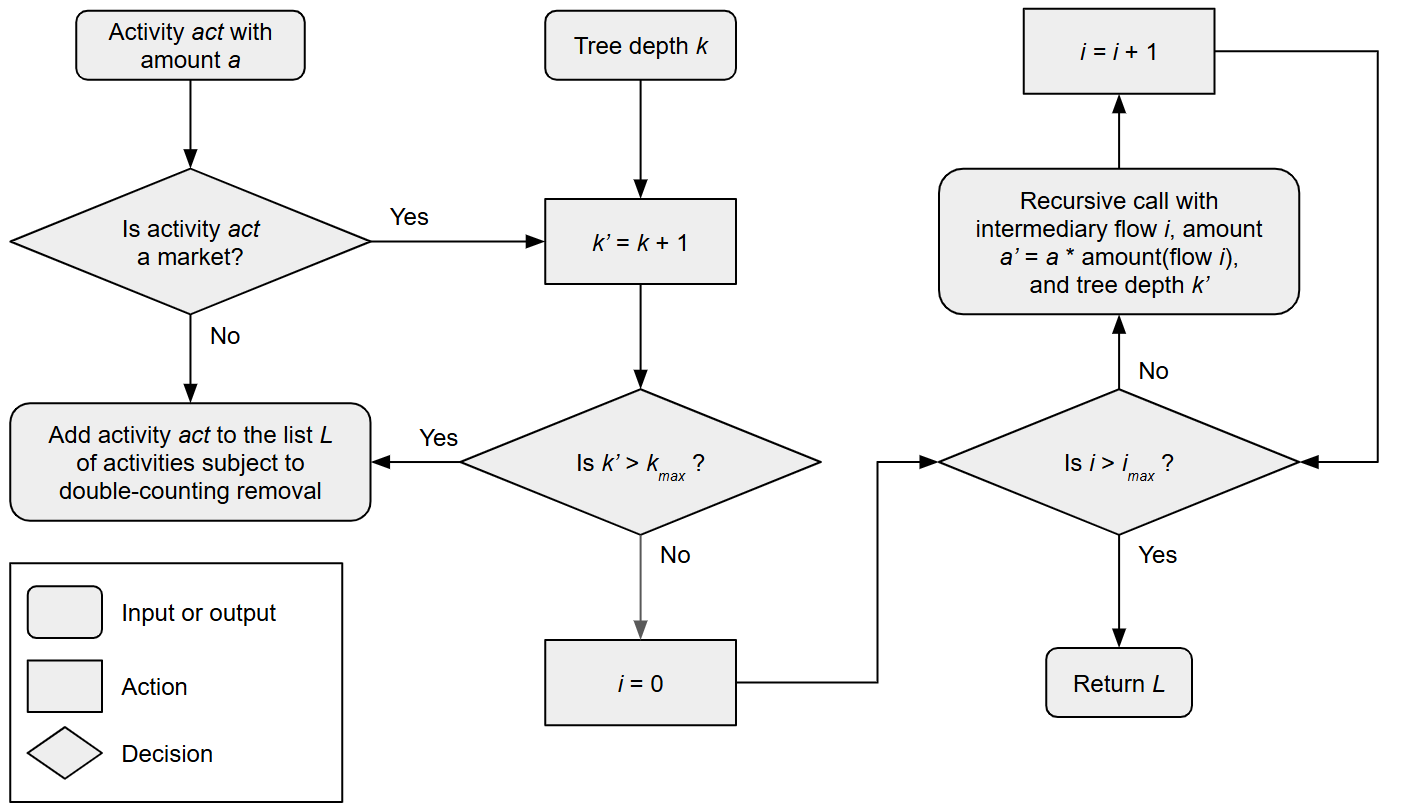
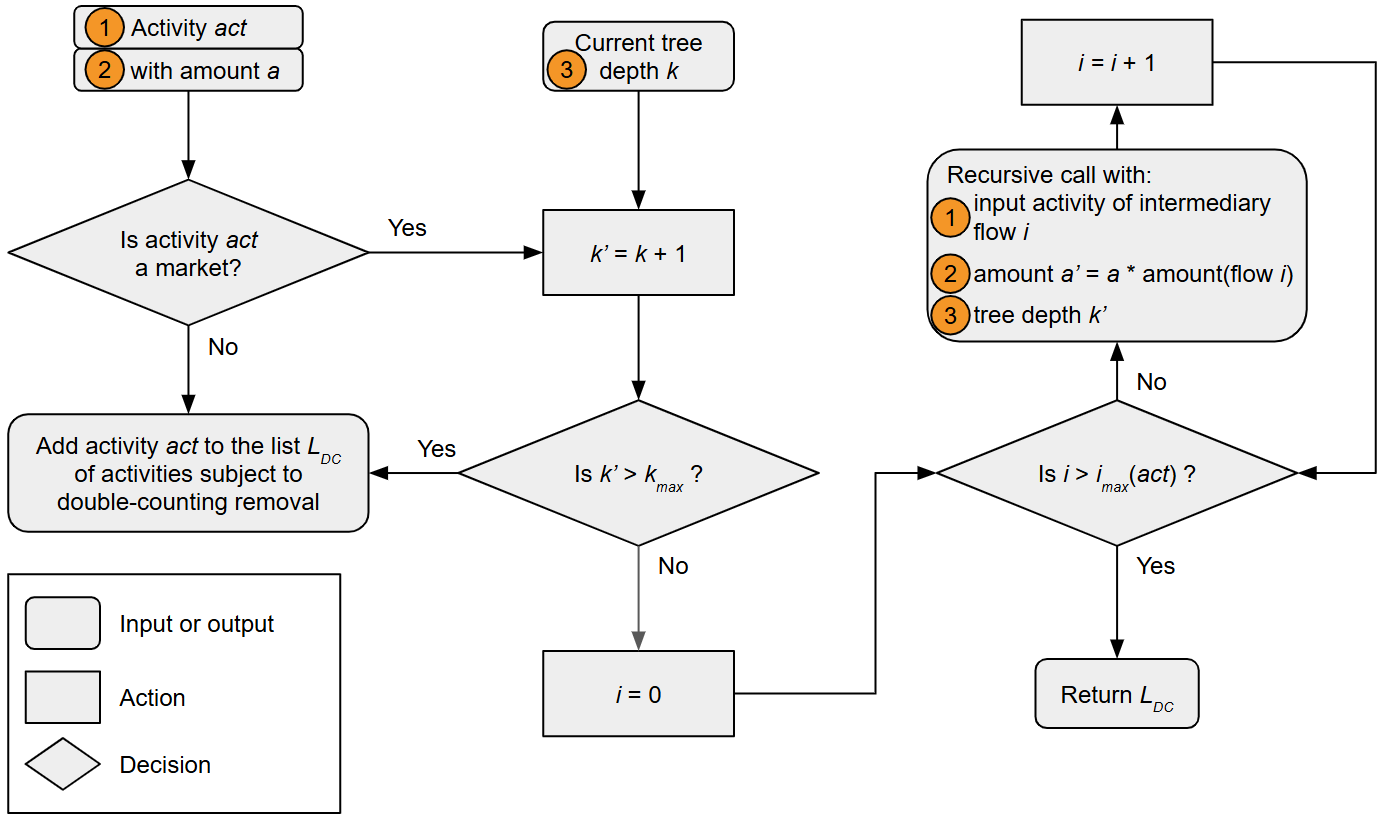
improved background search flow chart + equation esthetics

diff --git a/paper.md b/paper.md
@@ -64,7 +64,7 @@ transition pathways when policy targets were violated.
 For LCA indicators to be used actively in ESM, and thus in the transition scenarios design, hard-linking 
 coupling is required. This denotes the endogenous integration of LCA indicators in ESM.
 Several studies have endogenously integrated LCA indicators in ESM [@rauner2017; @vandepaer2020; @algunaibet2019; @reinert2022], thus 
-paving the way for multi-objective optimization. @vandepear2020 compared the use of the $\epsilon$-constraint 
+paving the way for multi-objective optimization. @vandepaer2020 compared the use of the $\epsilon$-constraint 
 method and the normalization and weighting method to integrate LCA indicators in a bottom-up optimization model. 
 Alternatively, @algunaibet2019 monetized environmental impacts in order to sum them with direct and indirect costs 
 within an economic objective function.
@@ -156,12 +156,14 @@ recursive algorithm exploring the market-type datasets backgrounds (\autoref{fig
 ![Flowchart of the background search process.\label{fig:flowchart_background_search}](docs/pics/background_search_flowchart.png)
 
 ## ESM and LCI database harmonization
-`mescal` adjusts LCI datasets and LCIA scores to account for differences between the ESM and LCI database:
+`mescal` adjusts LCI datasets and impact scores to account for differences between the ESM and LCI database:
 
-- **Technologies lifetime**: `mescal` adjusts the infrastructure LCIA scores to integrate the difference in lifetime 
-between ESM technologies and their infrastructure LCI datasets. The infrastructure specific LCIA score ($lcia_{infra}$) is
-multiplied by the ratio between the ESM lifetime ($n_{ESM}$) and the LCI dataset lifetime ($n_{LCI}$) to ensure that the annual impact in the 
-ESM is computed with the LCI dataset lifetime, thus resulting in the adjusted infrastructure specific LCIA score ($lcia_{infra}^{adj}$).
+- **Technologies lifetime**: Infrastructure LCA indicators are annual impacts, thus `mescal` adjusts the 
+infrastructure impact scores to integrate the difference in lifetime between ESM technologies and their 
+infrastructure LCI datasets. The infrastructure specific impact score ($lcia_{infra}$) is multiplied by the ratio 
+between the ESM lifetime ($n_{ESM}$) and the LCI dataset lifetime ($n_{LCI}$) to ensure that the annual impact in the 
+ESM is computed with the LCI dataset lifetime, thus resulting in the adjusted infrastructure specific impact score 
+($lcia_{infra}^{adj}$).
 
 $$
 lcia_{infra}^{adj}(j,k) = lcia_{infra}(j,k) \cdot \frac{n_{ESM}(j)}{n_{LCI}(j)} \quad \forall (j,k) \in TECH \times ENV
@@ -183,7 +185,7 @@ q^{adj}(ef, j) = q(ef, j) \cdot \frac{\eta_{LCI}(j)}{\eta_{ESM}(j)} \quad \foral
 $$
 
 - **Physical units**: The energy and material output flows may be expressed in different units in the ESM and the LCI 
-database. Specific LCIA scores are multiplied by a conversion factor, which converts the specific LCA 
+database. Specific impact scores are multiplied by a conversion factor, which converts the specific LCA 
 scores physical unit from [impact category unit / LCI output unit] to [impact category unit / ESM output unit]. 
 Conversion factors encompass LCI datasets assumptions such as capacity factors or vehicle load factors.
 
@@ -214,7 +216,10 @@ This aims to determine the maximum order of magnitude between the highest and lo
 to eventually facilitate the solver convergence.
 
 $$
-lcia_{infra}^{scaled}(j,k) = lcia_{infra}^{adj}(j,k) \cdot \dfrac{\max(lcia_{op}(j,k) \ | \ j \in TECH \ \cup \ RES)}{\max(lcia_{infra}(j,k) \ | \ j \in TECH)} \quad \forall (j,k) \in TECH \times ENV
+\begin{split}
+lcia_{infra}^{scaled}(j,k) & = lcia_{infra}^{adj}(j,k) \cdot \dfrac{\max(lcia_{op}(j,k) \ | \ j \in TECH \ \cup \ RES)}{\max(lcia_{infra}(j,k) \ | \ j \in TECH)} \\
+& \forall (j,k) \in TECH \times ENV
+\end{split}
 $$
 
 $$
@@ -222,13 +227,15 @@ lcia_{max}(k) = \max(lcia_{type,max}(j,k) \ | \ type \in \{infra, op\}, \ j \in 
 $$
 
 $$
-lcia_{type}^{norm}(j,k) = 
+\begin{split}
+lcia_{type}^{norm}(j,k) & = 
 \begin{cases}
     0 \text{ if } \dfrac{lcia_{type}^{(scaled)}(j,k)}{lcia_{max}(k)} \leq \epsilon \\
     \dfrac{lcia_{type}^{(scaled)}(j,k)}{lcia_{max}(k)} \cdot \dfrac{lcia_{infra,max}(k)}{lcia_{op,max}(k)} \text{ else}
 \end{cases}
-\quad \forall (j,k) \in TECH \ \cup \ RES \times ENV \\ 
-\quad \forall type \in \{infra, op\}
+& \forall (j,k) \in TECH \ \cup \ RES \times ENV \\ 
+& \forall type \in \{infra, op\}
+\end{split}
 $$
 
 ## Equations specification
@@ -243,7 +250,10 @@ $lcia^{norm}_{res}$), which are respectively computed from the operation and res
 with the annual operation (${F_t} \times t_{op}$). 
 
 $$
-{LCIA_{tot}}(k) = \sum_{j \in TECH} \left( {LCIA_{infra}}(j, k) + {LCIA_{op}}(j, k) \right) + \sum_{r \in RES} {LCIA_{op}}(r, k) \quad \forall k \in ENV
+\begin{split}
+{LCIA_{tot}}(k) & = \sum_{j \in TECH} \left( {LCIA_{infra}}(j, k) + {LCIA_{op}}(j, k) \right) + \sum_{r \in RES} {LCIA_{op}}(r, k) \\ 
+& \forall k \in ENV
+\end{split}
 $$
 
 $$
